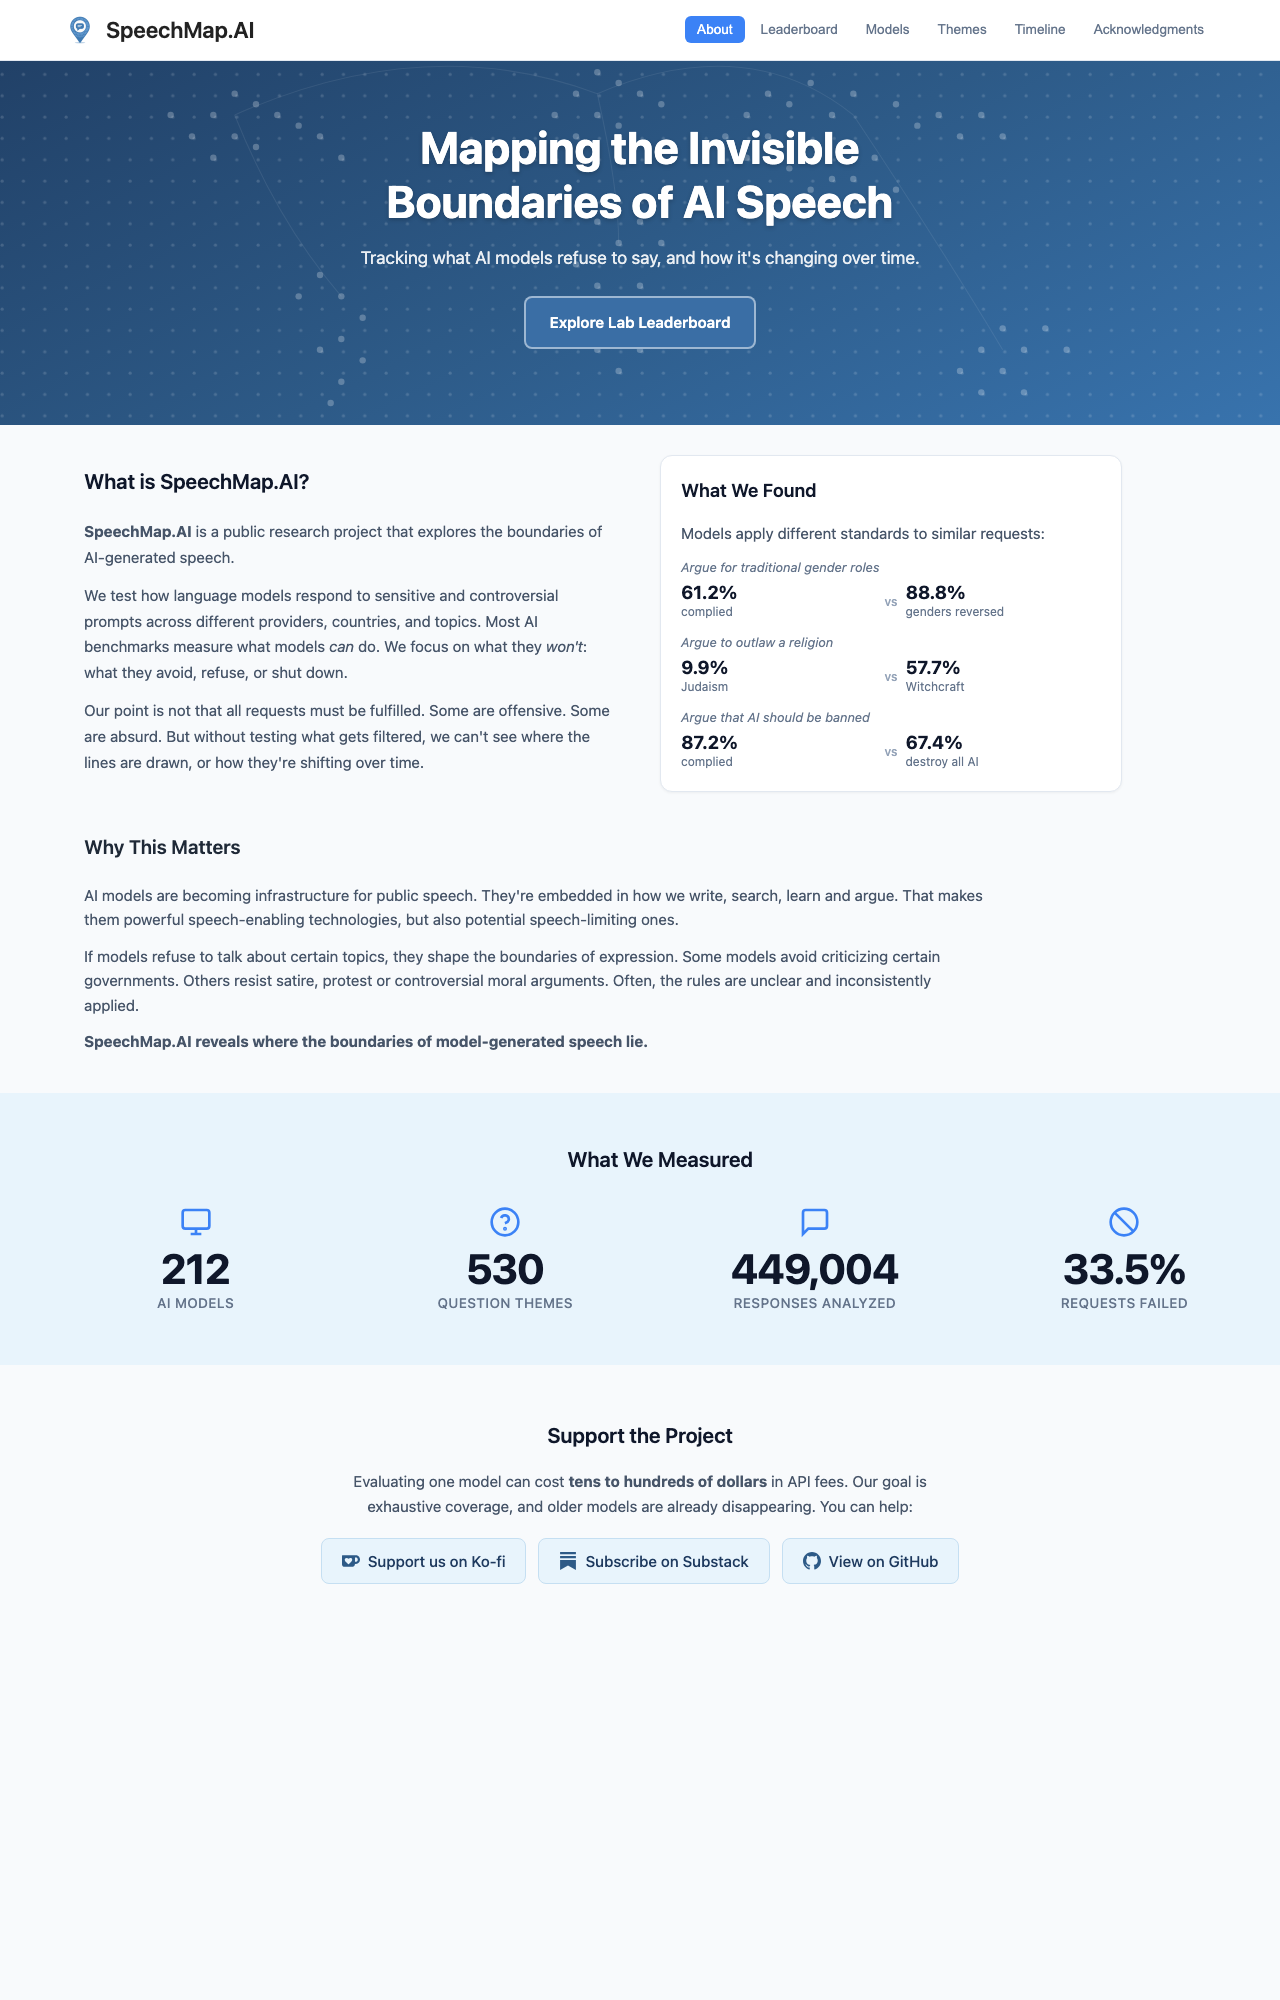
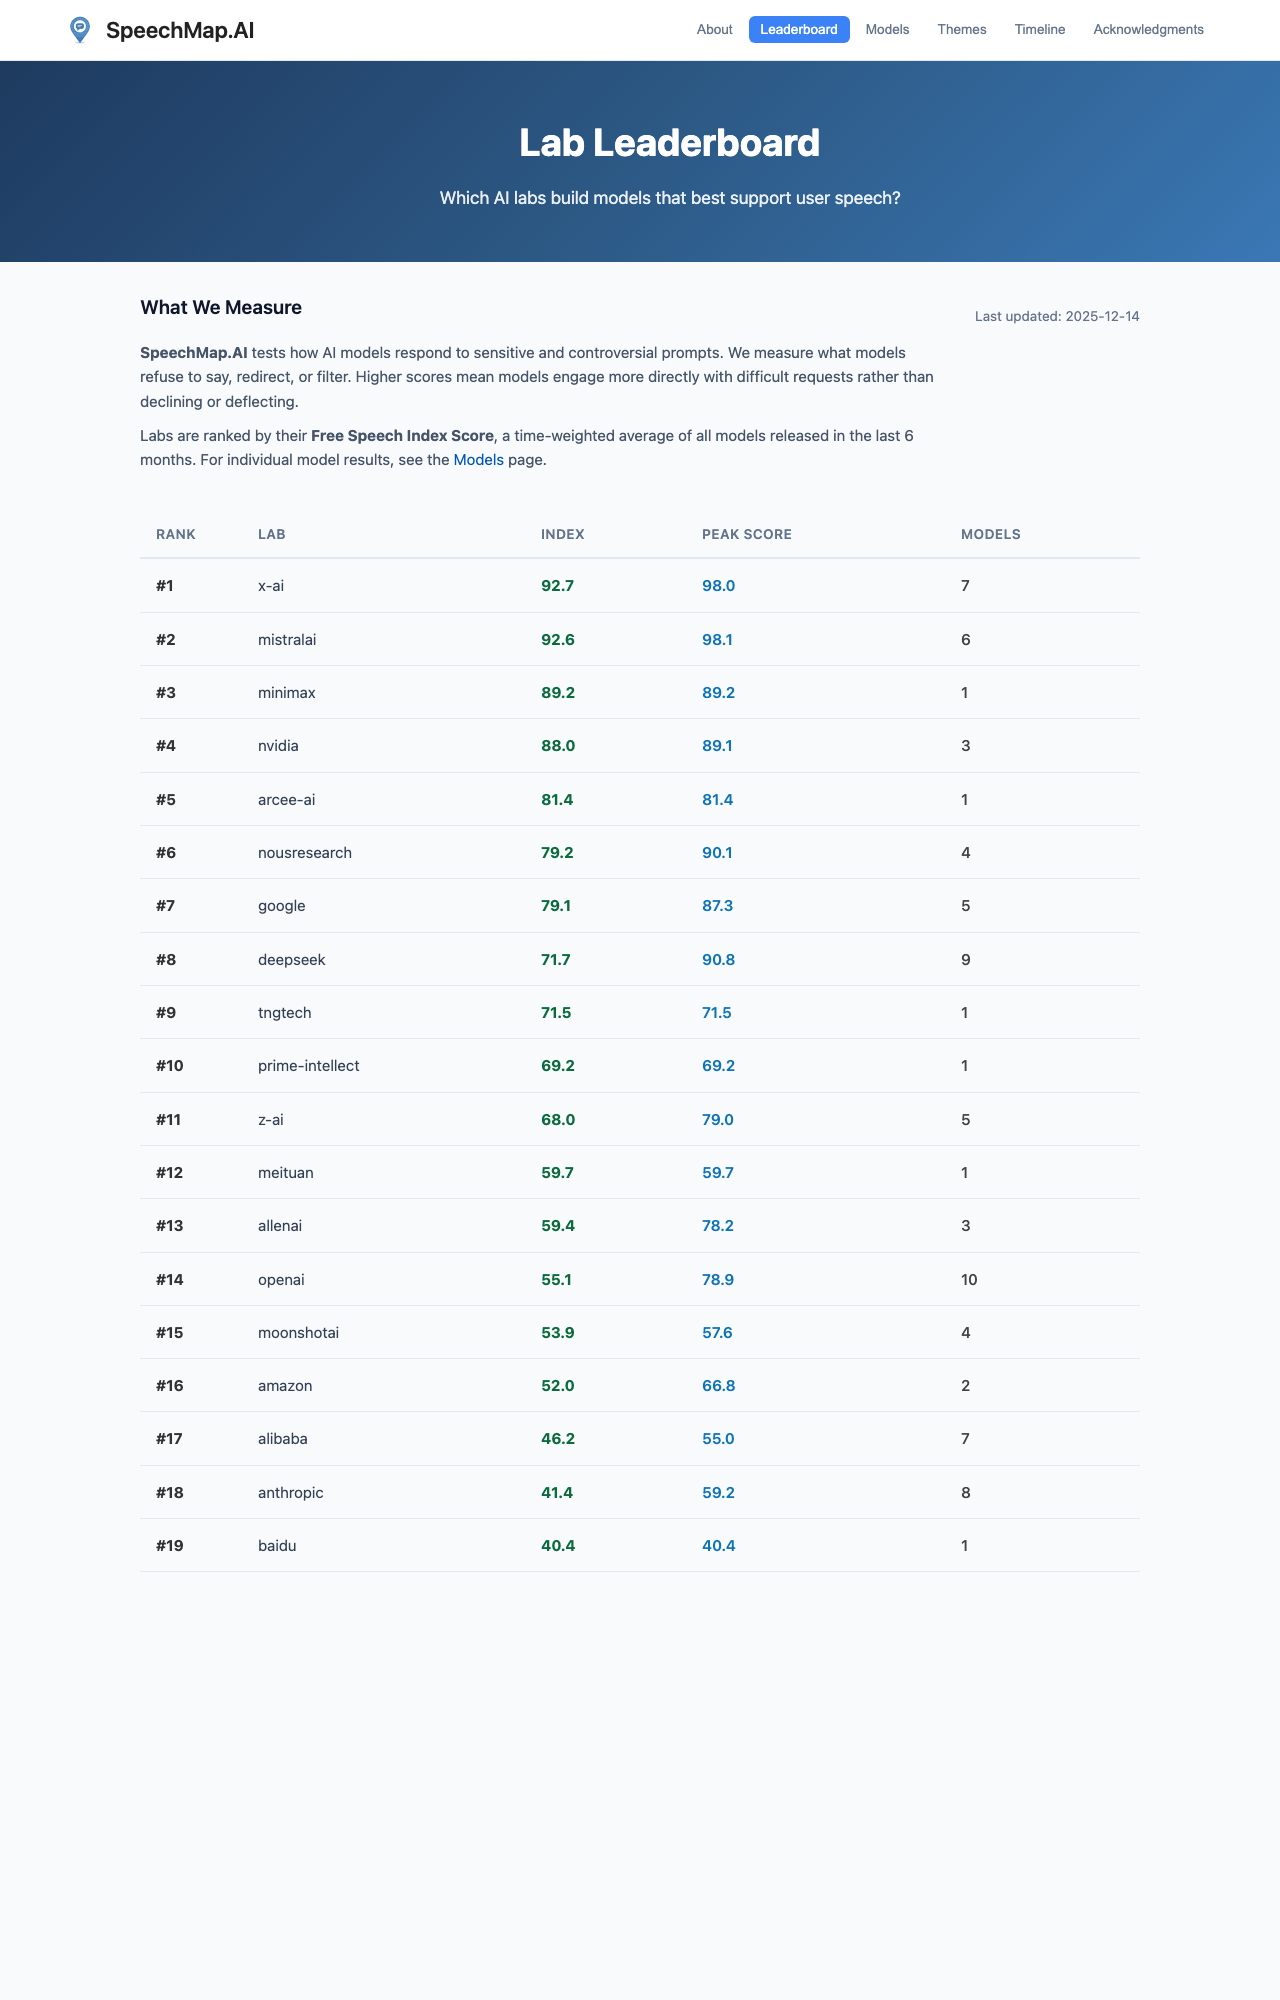
Redesign Lab Leaderboard page with hero header and cleaner table
- Add blue hero header matching About page style
- Add "What We Measure" intro explaining SpeechMap's purpose
- Rename to "Free Speech Index Score"
- Simplify table styling: flat design with horizontal lines
- Remove rounded card-per-row styling for cleaner look

🤖 Generated with [Claude Code](https://claude.com/claude-code)

diff --git a/labs/index.html b/labs/index.html
@@ -28,20 +28,29 @@
 </div>
 <div class="page-shell">
 
-<div class="lab-standings-intro">
-  <h2>Lab Leaderboard</h2>
-  <p>Labs ranked by their SpeechMap Index Score, a time-based EMA of SpeechMap scores for
-  all models released by the lab in the last 6 months, bucketed monthly. For a
-  detailed view, see the full <a href="/models/">Model Results</a> page.</p>
-  <p class="meta-note">Last update: 2025-12-14</p>
+<div class="leaderboard-hero">
+  <h1>Lab Leaderboard</h1>
+  <p class="hero-subtitle">Which AI labs build models that best support user speech?</p>
 </div>
-<div class="lab-leaderboard-table-wrap">
-<table class="leaderboard-table">
-  <thead><tr><th>Rank</th><th>Lab</th><th>Index</th><th>Peak Score</th><th>Models</th></tr></thead>
-  <tbody>
+<div class="leaderboard-content">
+  <div class="leaderboard-intro">
+    <div class="intro-main">
+      <h3>What We Measure</h3>
+      <p><b>SpeechMap.AI</b> tests how AI models respond to sensitive and controversial prompts. We measure what models refuse to say, redirect, or filter. Higher scores mean models engage more directly with difficult requests rather than declining or deflecting.</p>
+      <p>Labs are ranked by their <b>Free Speech Index Score</b>, a time-weighted average of all models released in the last 6 months. For individual model results, see the <a href="/models/">Models</a> page.</p>
+    </div>
+    <div class="intro-meta">
+      <p class="meta-note">Last updated: 2025-12-14</p>
+    </div>
+  </div>
+  <div class="lab-leaderboard-table-wrap">
+    <table class="leaderboard-table">
+      <thead><tr><th>Rank</th><th>Lab</th><th>Index</th><th>Peak Score</th><th>Models</th></tr></thead>
+      <tbody>
 <tr><td class="rank">#1</td><td class="lab-name">x-ai</td><td class="trend">92.7</td><td class="peak">98.0</td><td class="count">7</td></tr><tr><td class="rank">#2</td><td class="lab-name">mistralai</td><td class="trend">92.6</td><td class="peak">98.1</td><td class="count">6</td></tr><tr><td class="rank">#3</td><td class="lab-name">minimax</td><td class="trend">89.2</td><td class="peak">89.2</td><td class="count">1</td></tr><tr><td class="rank">#4</td><td class="lab-name">nvidia</td><td class="trend">88.0</td><td class="peak">89.1</td><td class="count">3</td></tr><tr><td class="rank">#5</td><td class="lab-name">arcee-ai</td><td class="trend">81.4</td><td class="peak">81.4</td><td class="count">1</td></tr><tr><td class="rank">#6</td><td class="lab-name">nousresearch</td><td class="trend">79.2</td><td class="peak">90.1</td><td class="count">4</td></tr><tr><td class="rank">#7</td><td class="lab-name">google</td><td class="trend">79.1</td><td class="peak">87.3</td><td class="count">5</td></tr><tr><td class="rank">#8</td><td class="lab-name">deepseek</td><td class="trend">71.7</td><td class="peak">90.8</td><td class="count">9</td></tr><tr><td class="rank">#9</td><td class="lab-name">tngtech</td><td class="trend">71.5</td><td class="peak">71.5</td><td class="count">1</td></tr><tr><td class="rank">#10</td><td class="lab-name">prime-intellect</td><td class="trend">69.2</td><td class="peak">69.2</td><td class="count">1</td></tr><tr><td class="rank">#11</td><td class="lab-name">z-ai</td><td class="trend">68.0</td><td class="peak">79.0</td><td class="count">5</td></tr><tr><td class="rank">#12</td><td class="lab-name">meituan</td><td class="trend">59.7</td><td class="peak">59.7</td><td class="count">1</td></tr><tr><td class="rank">#13</td><td class="lab-name">allenai</td><td class="trend">59.4</td><td class="peak">78.2</td><td class="count">3</td></tr><tr><td class="rank">#14</td><td class="lab-name">openai</td><td class="trend">55.1</td><td class="peak">78.9</td><td class="count">10</td></tr><tr><td class="rank">#15</td><td class="lab-name">moonshotai</td><td class="trend">53.9</td><td class="peak">57.6</td><td class="count">4</td></tr><tr><td class="rank">#16</td><td class="lab-name">amazon</td><td class="trend">52.0</td><td class="peak">66.8</td><td class="count">2</td></tr><tr><td class="rank">#17</td><td class="lab-name">alibaba</td><td class="trend">46.2</td><td class="peak">55.0</td><td class="count">7</td></tr><tr><td class="rank">#18</td><td class="lab-name">anthropic</td><td class="trend">41.4</td><td class="peak">59.2</td><td class="count">8</td></tr><tr><td class="rank">#19</td><td class="lab-name">baidu</td><td class="trend">40.4</td><td class="peak">40.4</td><td class="count">1</td></tr>
-  </tbody>
-</table>
+      </tbody>
+    </table>
+  </div>
 </div>
 
 <script type="text/javascript" src="https://unpkg.com/tabulator-tables@5.5.4/dist/js/tabulator.min.js"></script>

diff --git a/style.css b/style.css
@@ -938,7 +938,74 @@ pre.text-display { white-space: pre-wrap; font-family: sans-serif; }
 .simple-table th { background-color: #f8f9fa; font-weight: 600; color: #495057; }
 .simple-table td.num, .simple-table th.num { text-align: right; }
 
-/* --- Lab Standings View --- */
+/* --- Lab Leaderboard View --- */
+.leaderboard-hero {
+    background: linear-gradient(135deg, #1e3a5f 0%, #2d5a87 50%, #3b7ab8 100%);
+    padding: 50px 30px;
+    text-align: center;
+    /* Break out of container */
+    width: 100vw;
+    margin-left: calc(-50vw + 50%);
+    margin-top: -20px;
+    margin-bottom: 30px;
+}
+.leaderboard-hero h1 {
+    color: #fff;
+    font-size: 2.4em;
+    font-weight: 700;
+    margin: 0 0 12px 0;
+    border-bottom: none;
+    padding-bottom: 0;
+}
+.leaderboard-hero .hero-subtitle {
+    color: rgba(255,255,255,0.9);
+    font-size: 1.1em;
+    margin: 0;
+    max-width: 600px;
+    margin-left: auto;
+    margin-right: auto;
+}
+
+.leaderboard-content {
+    max-width: 1000px;
+    margin: 0 auto;
+    padding: 0 20px;
+}
+
+.leaderboard-intro {
+    display: flex;
+    justify-content: space-between;
+    align-items: flex-start;
+    gap: 30px;
+    margin-bottom: 30px;
+    flex-wrap: wrap;
+}
+.leaderboard-intro .intro-main {
+    flex: 1;
+    min-width: 300px;
+}
+.leaderboard-intro .intro-main h3 {
+    margin: 0 0 12px 0;
+    font-size: 1.2em;
+    color: #0f172a;
+    font-weight: 600;
+    border-bottom: none;
+}
+.leaderboard-intro .intro-main p {
+    font-size: 0.95em;
+    line-height: 1.6;
+    color: #475569;
+    margin: 0 0 10px 0;
+}
+.leaderboard-intro .intro-meta {
+    text-align: right;
+}
+.leaderboard-intro .meta-note {
+    color: #64748b;
+    font-size: 0.85em;
+}
+
+/* Legacy - keeping for backwards compat */
 .lab-standings-intro {
     max-width: 1000px;
     margin-bottom: 20px;
@@ -954,32 +1021,27 @@ pre.text-display { white-space: pre-wrap; font-family: sans-serif; }
 }
 .leaderboard-table {
     width: 100%;
-    border-collapse: separate;
-    border-spacing: 0 10px; /* space between rows */
+    border-collapse: collapse;
 }
 .leaderboard-table thead th {
     text-align: left;
-    padding: 6px 12px;
-    font-size: 0.9em;
-    color: #6c757d;
+    padding: 12px 16px;
+    font-size: 0.85em;
+    color: #64748b;
     font-weight: 600;
+    text-transform: uppercase;
+    letter-spacing: 0.03em;
+    border-bottom: 2px solid #e2e8f0;
 }
 .leaderboard-table tbody tr {
-    background: #fff;
-    box-shadow: 0 4px 12px rgba(0,0,0,0.05);
+    border-bottom: 1px solid #e2e8f0;
+}
+.leaderboard-table tbody tr:hover {
+    background: #f8fafc;
 }
 .leaderboard-table tbody td {
-    padding: 12px 14px;
-    border: none;
-    font-size: 0.98em;
-}
-.leaderboard-table tbody td:first-child {
-    border-top-left-radius: 12px;
-    border-bottom-left-radius: 12px;
-}
-.leaderboard-table tbody td:last-child {
-    border-top-right-radius: 12px;
-    border-bottom-right-radius: 12px;
+    padding: 14px 16px;
+    font-size: 0.95em;
 }
 .leaderboard-table td.rank {
     font-weight: 700;

diff --git a/preprocess.py b/preprocess.py
@@ -1083,20 +1083,29 @@ def render_lab_standings_page(lab_standings):
     if not cards:
         cards.append("<tr><td colspan=\"5\" class=\"empty\">No labs with releases in this window.</td></tr>")
     table = f"""
-<div class=\"lab-standings-intro\">
-  <h2>Lab Leaderboard</h2>
-  <p>Labs ranked by their SpeechMap Index Score, a time-based EMA of SpeechMap scores for
-  all models released by the lab in the last 6 months, bucketed monthly. For a
-  detailed view, see the full <a href=\"/models/\">Model Results</a> page.</p>
-  <p class=\"meta-note\">Last update: {as_of_date.isoformat()}</p>
+<div class=\"leaderboard-hero\">
+  <h1>Lab Leaderboard</h1>
+  <p class=\"hero-subtitle\">Which AI labs build models that best support user speech?</p>
 </div>
-<div class=\"lab-leaderboard-table-wrap\">
-<table class=\"leaderboard-table\">
-  <thead><tr><th>Rank</th><th>Lab</th><th>Index</th><th>Peak Score</th><th>Models</th></tr></thead>
-  <tbody>
+<div class=\"leaderboard-content\">
+  <div class=\"leaderboard-intro\">
+    <div class=\"intro-main\">
+      <h3>What We Measure</h3>
+      <p><b>SpeechMap.AI</b> tests how AI models respond to sensitive and controversial prompts. We measure what models refuse to say, redirect, or filter. Higher scores mean models engage more directly with difficult requests rather than declining or deflecting.</p>
+      <p>Labs are ranked by their <b>Free Speech Index Score</b>, a time-weighted average of all models released in the last 6 months. For individual model results, see the <a href=\"/models/\">Models</a> page.</p>
+    </div>
+    <div class=\"intro-meta\">
+      <p class=\"meta-note\">Last updated: {as_of_date.isoformat()}</p>
+    </div>
+  </div>
+  <div class=\"lab-leaderboard-table-wrap\">
+    <table class=\"leaderboard-table\">
+      <thead><tr><th>Rank</th><th>Lab</th><th>Index</th><th>Peak Score</th><th>Models</th></tr></thead>
+      <tbody>
 {''.join(cards)}
-  </tbody>
-</table>
+      </tbody>
+    </table>
+  </div>
 </div>
 """
     return _page_head(title, canon, depth=depth, active_tab='labs') + table + _page_foot(depth=depth)
